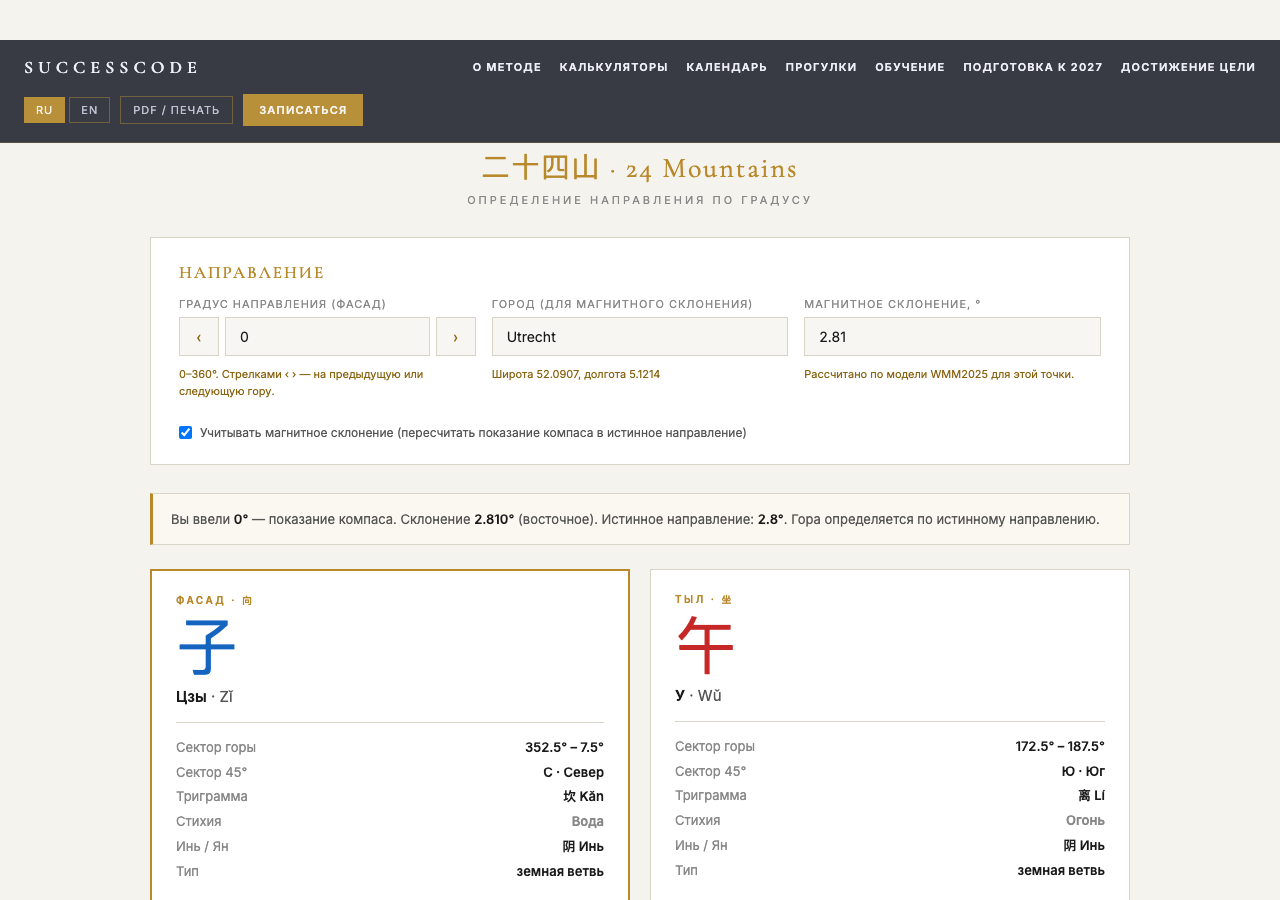
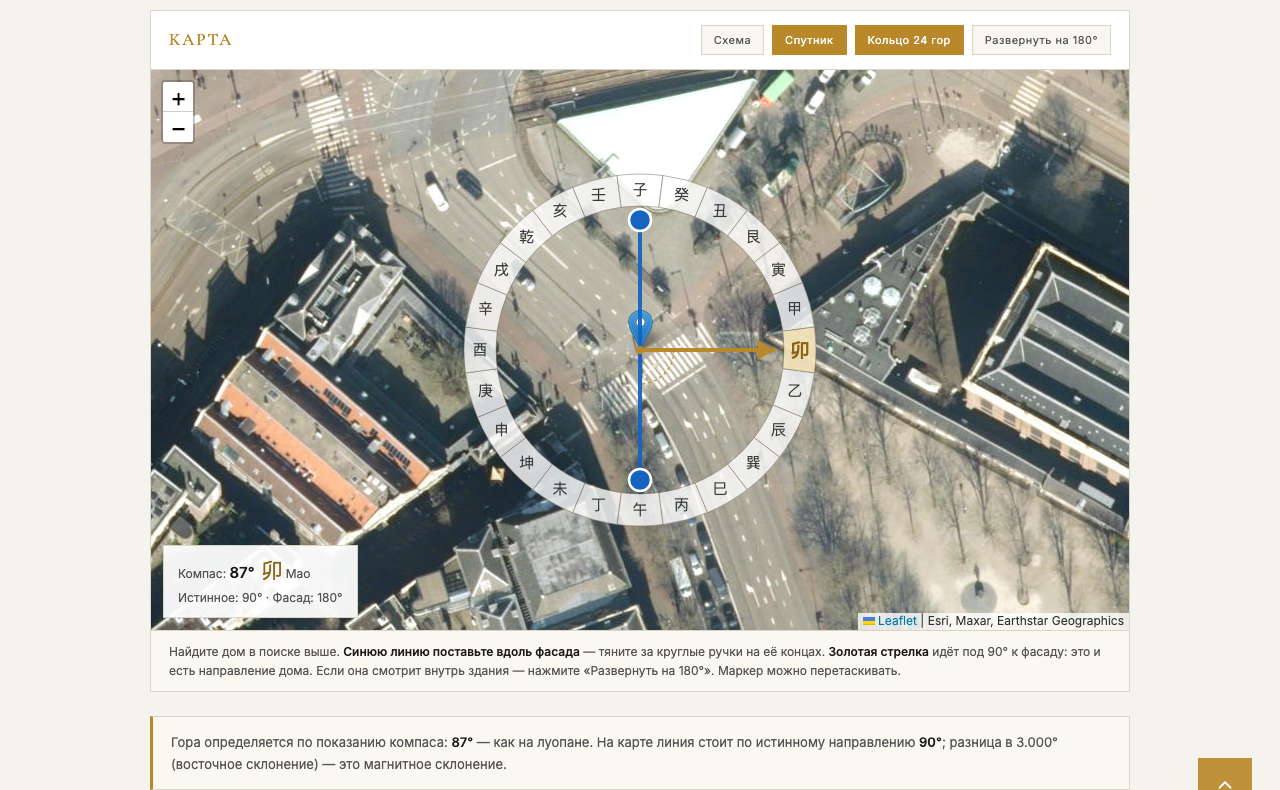
24 Mountains: read the ring in the compass frame; Amsterdam default; hub section
The declination wording was wrong, and it was not just wording — it described
the wrong frame as authoritative. Olga flagged it: the compass is the correct
reading.

Mechanically: a luopan needle points to MAGNETIC north, a map is TRUE-north-up,
so true = compass + declination (east positive). Both conversions are valid
arithmetic; what matters is which frame the 24-mountain ring is looked up in.
Classically the mountain is read straight off the luopan ring, i.e. the
magnetic frame. The page previously read it from the true bearing and told the
user so. Now:

- the compass reading determines the mountain (cards, table, ring highlight,
  readout, stepper);
- the true bearing exists only to draw the facade line on the map, which is
  genuinely true-north-up;
- the map still round-trips losslessly (compass 87 -> 87);
- both numbers are shown, so the frame is never ambiguous.

Verified: with declination 10, compass 5 gives Zi, where the true bearing 15
would give Gui — the card follows the compass, as intended.

Also:
- subtitle is "Определение направления фасада" (it finds a facade's direction,
  not a degree's);
- default location Amsterdam (declination 2.74) instead of Utrecht;
- calculators hub gains a titled "Калькуляторы фэн-шуй / Feng shui calculators"
  section holding this card, separate from the astrology calculators;
- card preview regenerated — it was still the pre-map screenshot.

diff --git a/24mountains.html b/24mountains.html
@@ -8,7 +8,7 @@
   <meta property="og:type" content="website">
   <meta property="og:site_name" content="SuccessCode">
   <meta property="og:title" content="SuccessCode — древнекитайская астрология">
-  <meta property="og:description" content="24 горы · определение направления и сектора по градусу.">
+  <meta property="og:description" content="24 горы · определение направления фасада.">
   <meta property="og:image" content="https://successcode.net/assets/og-successcode.png">
   <meta property="og:image:width" content="1200">
   <meta property="og:image:height" content="630">
@@ -340,14 +340,14 @@ const M24=[
 
 const I18N = {
   ru: {
-    sub: "Определение направления по градусу",
+    sub: "Определение направления фасада",
     inputTitle: "Направление",
     degLabel: "Градус направления (фасад)",
     degHint: "0–360°. Стрелками ‹ › — на предыдущую или следующую гору.",
     cityLabel: "Город (для магнитного склонения)",
     cityPh: "Начните вводить город…",
     declLabel: "Магнитное склонение, °",
-    useDecl: "Учитывать магнитное склонение (пересчитать показание компаса в истинное направление)",
+    useDecl: "Учитывать склонение: карта — истинный север, компас — магнитный",
     tblTitle: "Все 24 горы",
     back: "← Все калькуляторы",
     facing: "Фасад · 向",
@@ -359,9 +359,9 @@ const I18N = {
     yy: "Инь / Ян",
     kind: "Тип",
     yang: "Ян", yin: "Инь",
-    frameOn: "Вы ввели <b>{c}°</b> — показание компаса. Склонение <b>{d}°</b> ({dir}). Истинное направление: <b>{t}°</b>. Гора определяется по истинному направлению.",
-    frameOff: "Склонение не учитывается: <b>{c}°</b> используется как истинное направление. Если это показание компаса — включите пересчёт выше.",
-    east: "восточное", west: "западное",
+    frameOn: "Гора определяется по показанию компаса: <b>{c}°</b> — как на луопане. На карте линия стоит по истинному направлению <b>{t}°</b>; разница в {d}° ({dir}) — это магнитное склонение.",
+    frameOff: "Склонение выключено: карта и компас считаются совпадающими, гора определяется по <b>{c}°</b>.",
+    east: "восточное склонение", west: "западное склонение",
     coordHint: "Широта {lat}, долгота {lon}",
     declAuto: "Рассчитано по модели WMM2025 для этой точки.",
     declManual: "Введено вручную.",
@@ -369,25 +369,25 @@ const I18N = {
     thNum:"№", thM:"Гора", thPy:"Пиньинь", thRu:"Чтение", thFrom:"От°", thTo:"До°", thYY:"Инь/Ян",
     thGua:"Триграмма", thSec:"Сектор", thEl:"Стихия",
     addrLabel: "Адрес дома",
-    addrPh: "Улица, дом, город — например: Домплейн 29, Утрехт",
+    addrPh: "Улица, дом, город — например: Дам 1, Амстердам",
     searching: "Поиск…", noHits: "Ничего не найдено",
     declUseLabel: "Пересчёт",
     mapTitle: "Карта",
     laySat: "Спутник", layOsm: "Схема",
     ringBtn: "Кольцо 24 гор", flipBtn: "Развернуть на 180°",
     mapHint: "Найдите дом в поиске выше. <b>Синюю линию поставьте вдоль фасада</b> — тяните за круглые ручки на её концах. <b>Золотая стрелка</b> идёт под 90° к фасаду: это и есть направление дома. Если она смотрит внутрь здания — нажмите «Развернуть на 180°». Маркер можно перетаскивать.",
-    roFacing: "Направление", roWall: "Фасад",
+    roFacing: "Компас", roTrue: "Истинное", roWall: "Фасад",
     srcNote: "Таблица 24 гор — по «Шэнь ши сюань кун сюэ», раздел «Ай син». Магнитное склонение — модель WMM2025 (NOAA), действует до 31 декабря 2029 года."
   },
   en: {
-    sub: "Find the direction from a degree",
+    sub: "Finding a building's facing direction",
     inputTitle: "Direction",
     degLabel: "Facing degree (facade)",
     degHint: "0–360°. Use ‹ › to step to the previous or next mountain.",
     cityLabel: "City (for magnetic declination)",
     cityPh: "Start typing a city…",
     declLabel: "Magnetic declination, °",
-    useDecl: "Apply magnetic declination (convert a compass reading to true bearing)",
+    useDecl: "Apply declination: the map is true north, the compass is magnetic",
     tblTitle: "All 24 mountains",
     back: "← All calculators",
     facing: "Facing · 向",
@@ -399,8 +399,8 @@ const I18N = {
     yy: "Yin / Yang",
     kind: "Type",
     yang: "Yang", yin: "Yin",
-    frameOn: "You entered <b>{c}°</b> — a compass reading. Declination <b>{d}°</b> ({dir}). True bearing: <b>{t}°</b>. The mountain is read from the true bearing.",
-    frameOff: "Declination is not applied: <b>{c}°</b> is used as the true bearing. If that was a compass reading, switch the conversion on above.",
+    frameOn: "The mountain is read from the compass reading <b>{c}°</b> — as on a luopan. On the map the line sits at the true bearing <b>{t}°</b>; the {d}° ({dir}) difference is magnetic declination.",
+    frameOff: "Declination is off: map and compass are treated as the same, and the mountain is read from <b>{c}°</b>.",
     east: "east", west: "west",
     coordHint: "Latitude {lat}, longitude {lon}",
     declAuto: "Computed from the WMM2025 model for this point.",
@@ -409,14 +409,14 @@ const I18N = {
     thNum:"#", thM:"Mtn", thPy:"Pinyin", thRu:"Reading", thFrom:"From°", thTo:"To°", thYY:"Yin/Yang",
     thGua:"Trigram", thSec:"Sector", thEl:"Element",
     addrLabel: "Address",
-    addrPh: "Street, number, city — e.g. Domplein 29, Utrecht",
+    addrPh: "Street, number, city — e.g. Dam 1, Amsterdam",
     searching: "Searching…", noHits: "Nothing found",
     declUseLabel: "Conversion",
     mapTitle: "Map",
     laySat: "Satellite", layOsm: "Map",
     ringBtn: "24-mountain ring", flipBtn: "Flip 180°",
     mapHint: "Find the house with the search above. <b>Lay the blue line along the facade</b> — drag the round handles at its ends. The <b>gold arrow</b> sits at 90° to the facade: that is the house's facing. If it points into the building, press &quot;Flip 180°&quot;. The marker can be dragged.",
-    roFacing: "Facing", roWall: "Facade",
+    roFacing: "Compass", roTrue: "True", roWall: "Facade",
     srcNote: "The 24-mountain table follows Shen's Xuan Kong Xue, the Ai Xing section. Magnetic declination uses the WMM2025 model (NOAA), valid to 31 December 2029."
   }
 };
@@ -425,7 +425,7 @@ let LANG = "ru";
 try { const s = localStorage.getItem("sc-lang"); if (s === "ru" || s === "en") LANG = s; } catch (e) {}
 try { const q = new URL(location.href).searchParams.get("lang"); if (q === "ru" || q === "en") LANG = q; } catch (e) {}
 
-let LAT = 52.0907, LON = 5.1214, CITYNAME = "Utrecht";
+let LAT = 52.3676, LON = 4.9041, CITYNAME = "Amsterdam";
 let DECL_AUTO = true;
 let _cityTimer = null;
 
@@ -449,20 +449,22 @@ const opposite = m => M24[(mIndex(m) + 12) % 24];
 const centreOf = m => norm(m.s + 7.5);
 
 function stepMountain(dir) {
-  const cur = mountainAt(trueBearing());
+  const cur = mountainAt(compassDeg());
   const nxt = M24[(mIndex(cur) + dir + 24) % 24];
-  let t = centreOf(nxt);
-  // convert the true bearing back into the displayed (compass) frame
-  if ($("f-usedecl").checked) t = norm(t - declValue());
-  $("f-deg").value = r1(t);
+  $("f-deg").value = r1(centreOf(nxt));   // the box is already the compass frame
   compute();
 }
 
-const declValue = () => parseFloat($("f-decl").value) || 0;
-const inputDeg  = () => norm(parseFloat($("f-deg").value) || 0);
-function trueBearing() {
-  return $("f-usedecl").checked ? norm(inputDeg() + declValue()) : inputDeg();
-}
+/* Two frames, and it matters which one the ring is read in.
+   A luopan needle points to MAGNETIC north; a map is TRUE-north-up.
+     true = compass + declination        (declination east-positive)
+   The 24 mountains are read straight off the luopan ring, so the COMPASS
+   reading is what determines the mountain. The true bearing exists only to
+   draw the facade line correctly on the map. */
+const declValue  = () => parseFloat($("f-decl").value) || 0;
+const useDecl    = () => $("f-usedecl").checked;
+const compassDeg = () => norm(parseFloat($("f-deg").value) || 0);
+const trueDeg    = () => useDecl() ? norm(compassDeg() + declValue()) : compassDeg();
 
 function refreshDeclination() {
   if (!DECL_AUTO) return;
@@ -626,7 +628,7 @@ function drawOverlay() {
 
   if (SHOW_RING) {
     const R = RADIUS + 46, RI = RADIUS + 14;
-    const hit = mountainAt(fd);
+    const hit = mountainAt(useDecl() ? norm(fd - declValue()) : fd);
     for (const m of M24) {
       const a0 = m.s, a1 = m.s + 15;
       const o0 = ptAt(cx, cy, R, a0),  o1 = ptAt(cx, cy, R, a1);
@@ -700,42 +702,45 @@ function startRotate(ev) {
 
 /* map -> inputs. The arrow's angle is the TRUE bearing; the box shows the compass reading. */
 function syncFromMap() {
-  let shown = facingDeg();
-  if ($("f-usedecl").checked) shown = norm(shown - declValue());
-  $("f-deg").value = r1(shown);
+  // the arrow's angle on the map is a TRUE bearing -> show it as a compass reading
+  const tru = facingDeg();
+  $("f-deg").value = r1(useDecl() ? norm(tru - declValue()) : tru);
   compute();
 }
 /* inputs -> map, without fighting the user mid-drag */
 function syncFromInputs() {
-  WALL_DEG = norm(trueBearing() + 90 - FLIP);
+  WALL_DEG = norm(trueDeg() + 90 - FLIP);   // the map is true-north-up
   drawOverlay();
 }
 function updateReadout() {
-  const t = L(), fd = facingDeg(), m = mountainAt(fd);
+  const t = L(), fd = facingDeg();
+  const cd = useDecl() ? norm(fd - declValue()) : fd;
+  const m = mountainAt(cd);
   $("readout").innerHTML =
-    t.roFacing + ": <b>" + r1(fd) + "°</b> &nbsp;<span class='mtn'>" + m.n + "</span> " +
-    (LANG === "ru" ? m.ru : m.py) + "<br>" + t.roWall + ": " + r1(WALL_DEG) + "°";
+    t.roFacing + ": <b>" + r1(cd) + "°</b> &nbsp;<span class='mtn'>" + m.n + "</span> " +
+    (LANG === "ru" ? m.ru : m.py) +
+    "<br>" + t.roTrue + ": " + r1(fd) + "° · " + t.roWall + ": " + r1(WALL_DEG) + "°";
 }
 
 function compute() {
   const t = L();
-  const tb = trueBearing();
-  const face = mountainAt(tb);
+  const cd = compassDeg(), td = trueDeg();
+  const face = mountainAt(cd);          // read off the luopan ring
   const sit  = opposite(face);
 
   renderCard($("card-facing"),  face, "facing");
   renderCard($("card-sitting"), sit,  "sitting");
 
   const d = declValue();
-  $("frame-note").innerHTML = $("f-usedecl").checked
-    ? t.frameOn.replace("{c}", r1(inputDeg())).replace("{d}", d.toFixed(3))
-        .replace("{dir}", d >= 0 ? t.east : t.west).replace("{t}", r1(tb))
-    : t.frameOff.replace("{c}", r1(inputDeg()));
+  $("frame-note").innerHTML = useDecl()
+    ? t.frameOn.replace("{c}", r1(cd)).replace("{d}", Math.abs(d).toFixed(3))
+        .replace("{dir}", d >= 0 ? t.east : t.west).replace("{t}", r1(td))
+    : t.frameOff.replace("{c}", r1(cd));
 
   $("decl-hint").textContent  = DECL_AUTO ? t.declAuto : t.declManual;
   $("coord-hint").textContent = t.coordHint.replace("{lat}", LAT.toFixed(4)).replace("{lon}", LON.toFixed(4));
 
-  renderCompass(tb);
+  renderCompass(cd);
   renderTable(face);
   if (MAP) { syncFromInputs(); updateReadout(); }
 }

diff --git a/calculators.html b/calculators.html
@@ -108,6 +108,13 @@
     }
     .page-h1 em { font-style: italic; color: var(--gold2); }
 
+    .section-head {
+      display: flex; align-items: center; gap: 18px;
+      font-size: 13px; letter-spacing: 4px; text-transform: uppercase;
+      color: var(--gold); font-weight: 600;
+      margin: 64px 0 26px 0;
+    }
+    .section-head::after { content: ''; flex: 1; height: 1px; background: var(--border); }
     .cards {
       display: grid;
       grid-template-columns: repeat(3, 1fr);
@@ -234,6 +241,7 @@
       .page { padding: 50px 18px 60px 18px; }
       .page-h1 { font-size: 28px; margin-bottom: 30px; }
       .cards { grid-template-columns: 1fr; gap: 20px; }
+      .section-head { margin: 40px 0 18px 0; font-size: 11px; letter-spacing: 2.5px; }
       .card-header {
         min-height: 150px;
         padding: 26px 22px 22px;
@@ -362,6 +370,14 @@
         </a>
       </div>
 
+    </div>
+
+    <div class="section-head">
+      <span data-lang="ru">Калькуляторы фэн-шуй</span>
+      <span data-lang="en">Feng shui calculators</span>
+    </div>
+
+    <div class="cards">
       <div class="card" data-href="/24mountains">
         <div class="card-header">
           <div class="card-names">
